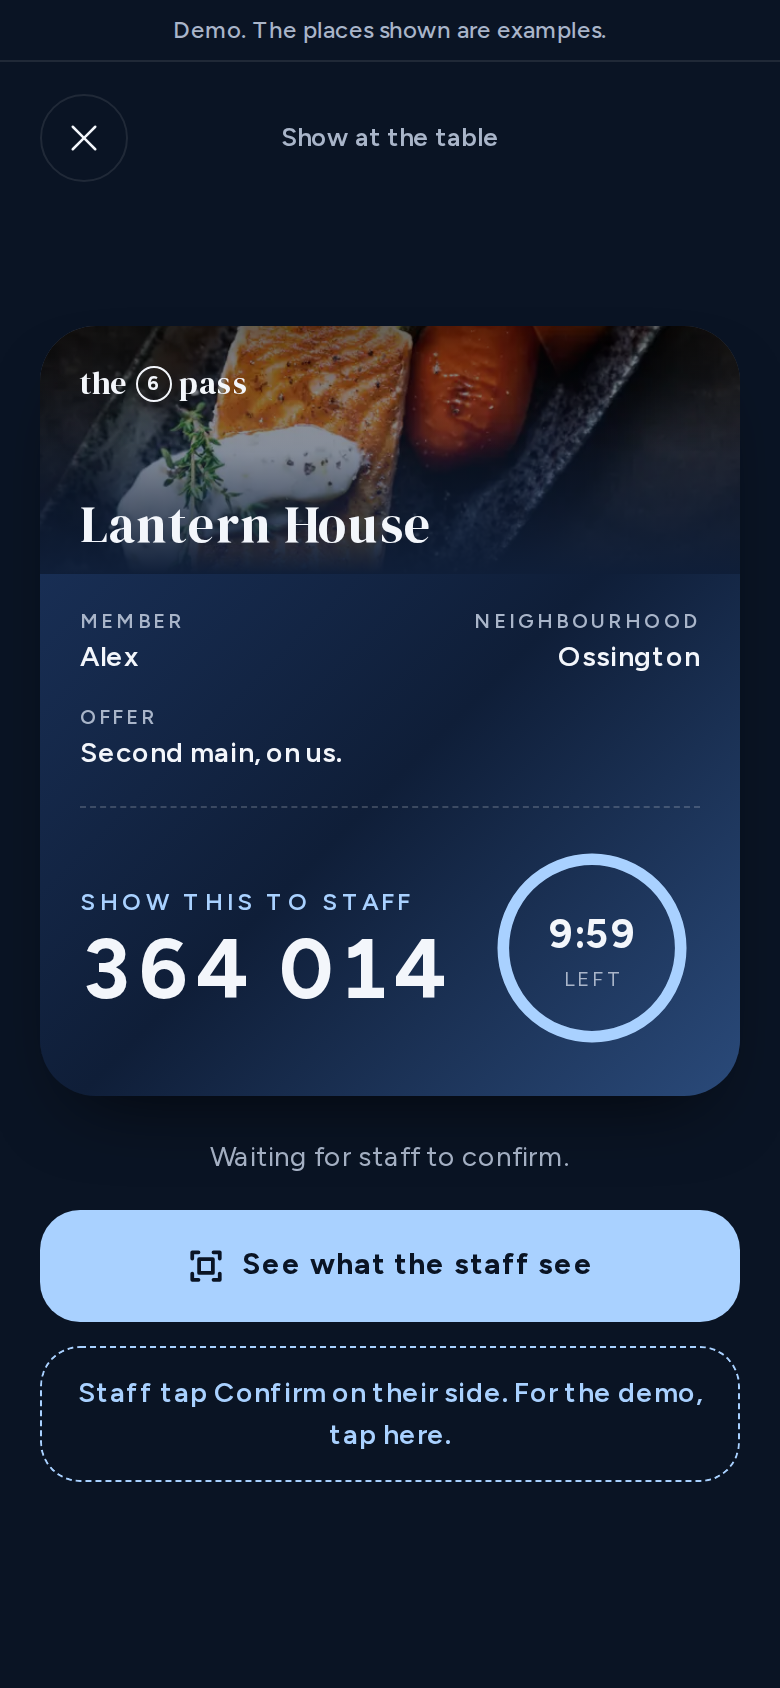
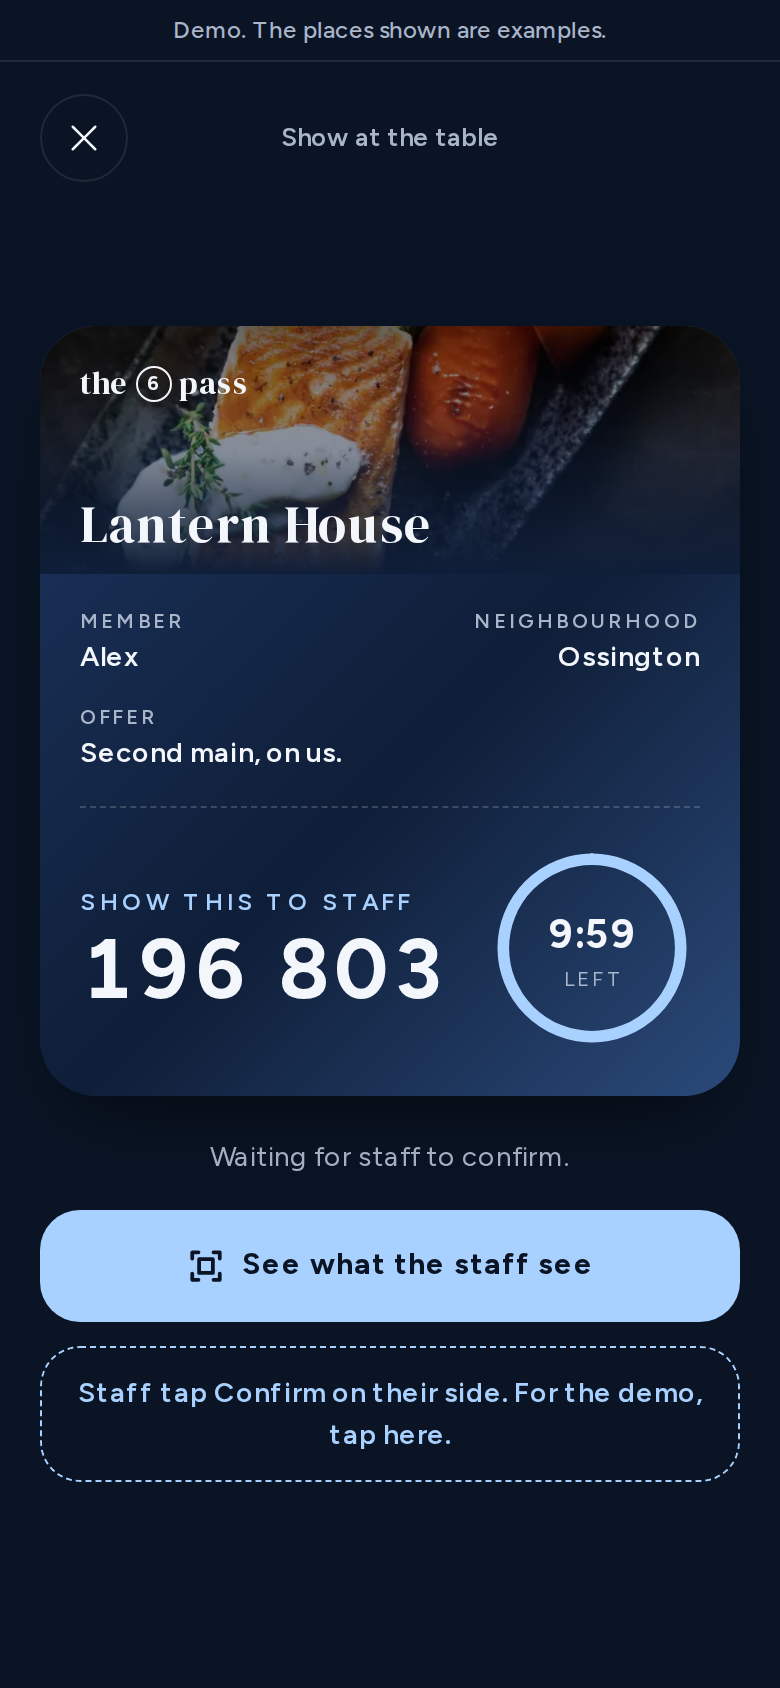
Home: offer photos, app preview, phone join bar; address slot; old-link redirects
- Offer rows get photos of made-up places from the app demo.
- New 'The app' section with three real screens from /app, labelled as a preview.
- Phones get a slim Join the waitlist bar once the hero form scrolls away.
- site.mailingAddress (empty until real) shows in the footer and under the form.
- Netlify 301s for the old April site's /explore, /for-business, /contact.

Claude-Session: https://claude.ai/code/session_01Hni5Cef4CA9zjzKqZXs5rc

Changed region(s): [[0.3385, 0.5545, 0.5846, 0.6161], [0.1231, 0.5545, 0.3077, 0.6161]]

diff --git a/src/app/(site)/page.tsx b/src/app/(site)/page.tsx
@@ -1,4 +1,5 @@
 import {
+  appPreview,
   countdown,
   faq,
   hero,
@@ -13,6 +14,7 @@ import Link from "next/link";
 import { SiteHeader } from "@/components/SiteHeader";
 import { SiteFooter } from "@/components/SiteFooter";
 import { PassCard } from "@/components/PassCard";
+import { MobileJoinBar } from "@/components/MobileJoinBar";
 import { WaitlistForm } from "@/components/WaitlistForm";
 import { OpenWaitlistButton, WaitlistPopup } from "@/components/WaitlistPopup";
 import { Countdown } from "@/components/Countdown";
@@ -43,6 +45,7 @@ export default function Home() {
               <h2 className="sr-only">Join the waitlist</h2>
               <WaitlistForm placement="hero" />
               <p className="mt-3 text-sm text-muted">{hero.formNote}</p>
+              {site.mailingAddress && <p className="mt-1 text-sm text-muted">{site.name}, {site.mailingAddress}</p>}
             </div>
           </div>
           <div className="flex md:justify-end">
@@ -87,17 +90,61 @@ export default function Home() {
               {offers.items.map((o, i) => (
                 <li
                   key={o.category}
-                  className="grid grid-cols-[40px_1fr] gap-x-3 gap-y-1 border-b border-ink/15 py-5 md:grid-cols-[64px_minmax(0,0.8fr)_minmax(0,1.4fr)] md:items-baseline md:gap-x-6 md:py-7"
+                  className="grid grid-cols-[40px_1fr_88px] items-center gap-x-3 gap-y-1 border-b border-ink/15 py-5 md:grid-cols-[64px_minmax(0,0.8fr)_minmax(0,1.4fr)_168px] md:gap-x-6 md:py-6"
                 >
-                  <span aria-hidden="true" className="font-serif text-xl italic text-muted md:text-2xl">{num(i)}</span>
-                  <h3 className="text-[13px] font-semibold uppercase tracking-[0.1em] md:text-sm">{o.category}</h3>
-                  <p className="col-start-2 font-serif text-[26px] leading-[1.1] md:col-start-3 md:row-start-1 md:text-[38px]">
+                  <span aria-hidden="true" className="self-start font-serif text-xl italic text-muted md:self-center md:text-2xl">{num(i)}</span>
+                  <h3 className="self-end text-[13px] font-semibold uppercase tracking-[0.1em] md:self-center md:text-sm">{o.category}</h3>
+                  <p className="col-start-2 self-start font-serif text-[26px] leading-[1.1] md:col-start-3 md:row-start-1 md:self-center md:text-[38px]">
                     {o.offer}
                   </p>
+                  {/* eslint-disable-next-line @next/next/no-img-element -- static export, images are pre-sized */}
+                  <img
+                    src={`${o.image}-640.webp`}
+                    alt={o.alt}
+                    width={640}
+                    height={427}
+                    loading="lazy"
+                    decoding="async"
+                    className="col-start-3 row-span-2 row-start-1 aspect-square w-full rounded-[14px] object-cover md:col-start-4 md:row-span-1 md:aspect-[4/3]"
+                  />
                 </li>
               ))}
             </ul>
             <p className="mt-4 text-sm text-muted">{offers.caption}</p>
+          </div>
+        </section>
+
+        {/* App preview */}
+        <section id="app" aria-labelledby="app-title" className="on-dark bg-ink py-16 text-mist md:py-24">
+          <div className="wrap">
+            <div className="grid gap-6 md:grid-cols-2 md:items-end md:gap-10">
+              <div>
+                <p className="text-sm font-semibold uppercase tracking-[0.12em] text-pale">{appPreview.eyebrow}</p>
+                <h2 id="app-title" className={`${h2} mt-4`}>{appPreview.title}</h2>
+              </div>
+              <div className="md:justify-self-end">
+                <p className="max-w-[38ch] text-pale">{appPreview.text}</p>
+                <p className="mt-4">
+                  <Link href="/app" className="font-semibold text-mist underline underline-offset-4">
+                    {appPreview.link}
+                  </Link>
+                </p>
+              </div>
+            </div>
+            <ul className="no-scrollbar -mx-4 mt-10 flex snap-x snap-mandatory gap-4 overflow-x-auto px-4 pb-2 md:mx-0 md:mt-14 md:grid md:grid-cols-3 md:gap-8 md:overflow-visible md:px-0">
+              {appPreview.screens.map((sc) => (
+                <li key={sc.src} className="w-[72%] max-w-[300px] shrink-0 snap-center md:w-auto md:max-w-none">
+                  <figure>
+                    <div className="overflow-hidden rounded-[28px] border-[6px] border-[#1b2333] bg-[#0a1424]">
+                      {/* eslint-disable-next-line @next/next/no-img-element -- static export, images are pre-sized */}
+                      <img src={`${sc.src}.webp`} alt={sc.alt} width={600} height={1298} loading="lazy" decoding="async" className="block h-auto w-full" />
+                    </div>
+                    <figcaption className="mt-3 text-pale">{sc.caption}</figcaption>
+                  </figure>
+                </li>
+              ))}
+            </ul>
+            <p className="mt-6 text-sm text-pale">{appPreview.label}</p>
           </div>
         </section>
 
@@ -205,7 +252,7 @@ export default function Home() {
         </section>
 
         {/* Countdown */}
-        <section aria-labelledby="count-title" className="on-dark bg-ink py-16 text-mist md:py-24">
+        <section data-waitlist-cta aria-labelledby="count-title" className="on-dark bg-ink py-16 text-mist md:py-24">
           <div className="wrap">
             <div className="grid gap-5 md:grid-cols-2 md:items-end">
               <h2 id="count-title" className={h2}>{countdown.title}</h2>
@@ -221,6 +268,7 @@ export default function Home() {
         </section>
       </main>
       <SiteFooter />
+      <MobileJoinBar />
       <WaitlistPopup />
     </>
   );

diff --git a/src/content/site.ts b/src/content/site.ts
@@ -21,6 +21,12 @@ export const site = {
   instagram: "the6pass",
   city: "Toronto, ON",
 
+  // Canada's anti-spam law (CASL) needs a real mailing address on every
+  // email we send, and it's good to show it here too. Leave it empty ("")
+  // until there is a real one: nothing shows while it's empty.
+  // Example: "100 Example St, Suite 1, Toronto, ON M5V 0A1"
+  mailingAddress: "",
+
   // Launch moment for the countdown. Keep the "-04:00" at the end:
   // that is Toronto time in March (daylight saving starts Mar 14, 2027).
   launchAt: "2027-03-16T09:00:00-04:00",
@@ -85,15 +91,18 @@ export const offers = {
   title: "What a pass gets you.",
   intro: "Two-for-one, or a free upgrade, at places worth going back to.",
   caption: "Example offers. Each partner sets its own.",
+  // Photos are of made-up places from the app demo (see docs/IMAGE-CREDITS.md).
   items: [
-    { category: "Restaurants and cafés", offer: "Second main, on us." },
-    { category: "Spas", offer: "A free upgrade on your treatment." },
-    { category: "Yoga and studios", offer: "Bring a friend to class, free." },
+    { category: "Restaurants and cafés", offer: "Second main, on us.", image: "/demo/lantern-house", alt: "A plate of salmon and roasted peppers." },
+    { category: "Spas", offer: "A free upgrade on your treatment.", image: "/demo/quiet-hours", alt: "Folded towels, candles and stones in a spa." },
+    { category: "Yoga and studios", offer: "Bring a friend to class, free.", image: "/demo/morning-light", alt: "Rows of mats in a quiet studio." },
     {
       category: "Hotel restaurants and spas",
       offer: "Lunch in the dining room, second main on us.",
+      image: "/demo/calloway-dining",
+      alt: "Armchairs and tables in a hotel dining room.",
     },
-    { category: "Experiences", offer: "A second spot, on us." },
+    { category: "Experiences", offer: "A second spot, on us.", image: "/demo/kiln-day", alt: "Hands shaping clay on a pottery wheel." },
   ],
 };
 
@@ -140,6 +149,24 @@ export const neighbourhoodOptions = [
   "Somewhere else in Toronto",
   "Outside Toronto",
 ];
+
+export const appPreview = {
+  eyebrow: "The app",
+  title: "Tap, show, enjoy.",
+  text: "Find a spot that runs today, tap Redeem, and show the code. Staff confirm it, and the second one is on the house.",
+  label: "Preview. The app opens to members in 2027.",
+  screens: [
+    { src: "/preview/explore", caption: "Find a spot that runs today.", alt: "The app's Explore screen, listing places with today's offers." },
+    { src: "/preview/place", caption: "See the offer, the days and your uses.", alt: "A place in the app, with its offer, the days it runs and a Redeem button." },
+    { src: "/preview/code", caption: "Show your code. Staff confirm it.", alt: "A six-digit code with a ten-minute timer, ready to show staff." },
+  ],
+  link: "Try the demo",
+};
+
+export const mobileBar = {
+  text: "Founding member pricing for the waitlist.",
+  button: "Join the waitlist",
+};
 
 export const owners = {
   eyebrow: "For owners",

diff --git a/src/components/MobileJoinBar.tsx b/src/components/MobileJoinBar.tsx
@@ -1,0 +1,60 @@
+"use client";
+
+import { useEffect, useState } from "react";
+import { mobileBar } from "@/content/site";
+import { getItem, JOINED_EVENT, JOINED_KEY, OPEN_WAITLIST_EVENT } from "@/lib/storage";
+
+/*
+ * Phones only: a slim "Join the waitlist" bar at the bottom of the screen.
+ * It shows once the hero form has scrolled away, hides again while any
+ * waitlist form or the footer is on screen, and never shows after joining.
+ */
+export function MobileJoinBar() {
+  const [show, setShow] = useState(false);
+
+  useEffect(() => {
+    if (getItem(JOINED_KEY) === "1") return;
+    const hero = document.getElementById("join");
+    const watched = [hero, ...Array.from(document.querySelectorAll("footer, [data-waitlist-cta]"))].filter(Boolean) as Element[];
+    const visible = new Set<Element>();
+    let pastHero = false;
+    const io = new IntersectionObserver((entries) => {
+      for (const e of entries) {
+        if (e.isIntersecting) visible.add(e.target);
+        else visible.delete(e.target);
+        if (e.target === hero && !e.isIntersecting && e.boundingClientRect.top < 0) pastHero = true;
+        if (e.target === hero && e.isIntersecting) pastHero = false;
+      }
+      setShow(pastHero && visible.size === 0);
+    });
+    watched.forEach((el) => io.observe(el));
+    const joined = () => {
+      io.disconnect();
+      setShow(false);
+    };
+    window.addEventListener(JOINED_EVENT, joined);
+    return () => {
+      io.disconnect();
+      window.removeEventListener(JOINED_EVENT, joined);
+    };
+  }, []);
+
+  return (
+    <div
+      aria-hidden={!show}
+      inert={!show}
+      className={`fixed inset-x-0 bottom-0 z-40 border-t border-ink/15 bg-white/95 px-4 pb-[max(env(safe-area-inset-bottom),12px)] pt-3 backdrop-blur transition-transform duration-300 motion-reduce:transition-none md:hidden ${show ? "translate-y-0" : "translate-y-full"}`}
+    >
+      <div className="flex items-center gap-3">
+        <p className="min-w-0 flex-1 text-sm leading-snug text-muted">{mobileBar.text}</p>
+        <button
+          type="button"
+          onClick={() => window.dispatchEvent(new Event(OPEN_WAITLIST_EVENT))}
+          className="min-h-[44px] shrink-0 rounded-full bg-ink px-5 text-[15px] font-semibold text-white"
+        >
+          {mobileBar.button}
+        </button>
+      </div>
+    </div>
+  );
+}

diff --git a/src/components/SiteFooter.tsx b/src/components/SiteFooter.tsx
@@ -11,7 +11,7 @@ export function SiteFooter() {
           <address className="mt-4 not-italic leading-relaxed text-muted">
             {site.name}
             <br />
-            {site.city}
+            {site.mailingAddress || site.city}
             <br />
             <a href={`mailto:${site.email}`} className="underline underline-offset-4 hover:text-ink">
               {site.email}

diff --git a/src/app/globals.css b/src/app/globals.css
@@ -121,3 +121,10 @@ dialog.waitlist-dialog::backdrop {
     transition-duration: 0.01ms !important;
   }
 }
+
+.no-scrollbar {
+  scrollbar-width: none;
+}
+.no-scrollbar::-webkit-scrollbar {
+  display: none;
+}

diff --git a/docs/app-mock/RESULTS.md b/docs/app-mock/RESULTS.md
@@ -11,12 +11,12 @@ Run with Chromium (Playwright) against `http://localhost:4190`.
 | PASS | [desktop] Esc goes back to Explore |  |
 | PASS | [desktop] place has its own URL |  |
 | PASS | [desktop] uses left starts 2 of 2 |  |
-| PASS | [desktop] redeem shows a 6-digit code | 776 823 |
+| PASS | [desktop] redeem shows a 6-digit code | 207 725 |
 | PASS | [desktop] countdown is running | 9:59 |
-| PASS | [desktop] refresh keeps the same code | 776 823 -> 776 823 |
+| PASS | [desktop] refresh keeps the same code | 207 725 -> 207 725 |
 | PASS | [desktop] Back returns to the place |  |
 | PASS | [desktop] place offers "Show my code" while live |  |
-| PASS | [desktop] partner view shows the same code | 776 823 |
+| PASS | [desktop] partner view shows the same code | 207 725 |
 | PASS | [desktop] code moves to Confirmed at the door |  |
 | PASS | [desktop] member sees Confirmed and the saving | Confirmed. You saved about $32. |
 | PASS | [desktop] uses left dropped to 1 of 2 |  |
@@ -43,12 +43,12 @@ Run with Chromium (Playwright) against `http://localhost:4190`.
 | PASS | [phone] filter spa + Yorkville | 1 place · 1 runs today |
 | PASS | [phone] place has its own URL |  |
 | PASS | [phone] uses left starts 2 of 2 |  |
-| PASS | [phone] redeem shows a 6-digit code | 364 014 |
+| PASS | [phone] redeem shows a 6-digit code | 196 803 |
 | PASS | [phone] countdown is running | 9:59 |
-| PASS | [phone] refresh keeps the same code | 364 014 -> 364 014 |
+| PASS | [phone] refresh keeps the same code | 196 803 -> 196 803 |
 | PASS | [phone] Back returns to the place |  |
 | PASS | [phone] place offers "Show my code" while live |  |
-| PASS | [phone] partner view shows the same code | 364 014 |
+| PASS | [phone] partner view shows the same code | 196 803 |
 | PASS | [phone] code moves to Confirmed at the door |  |
 | PASS | [phone] member sees Confirmed and the saving | Confirmed. You saved about $32. |
 | PASS | [phone] uses left dropped to 1 of 2 |  |
